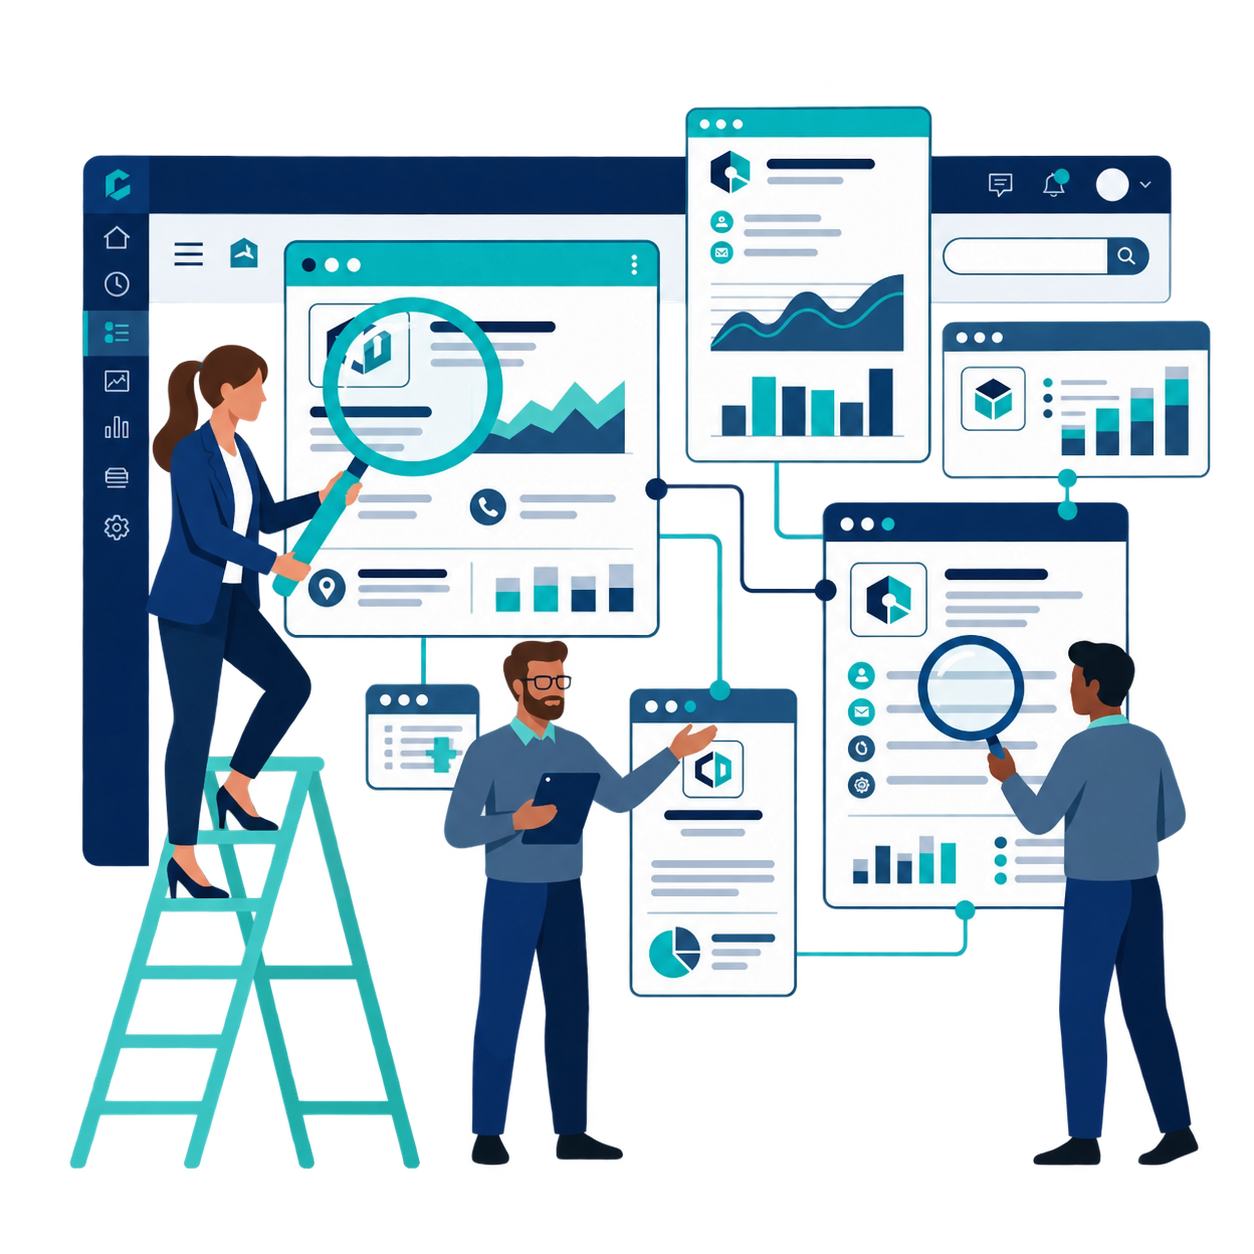
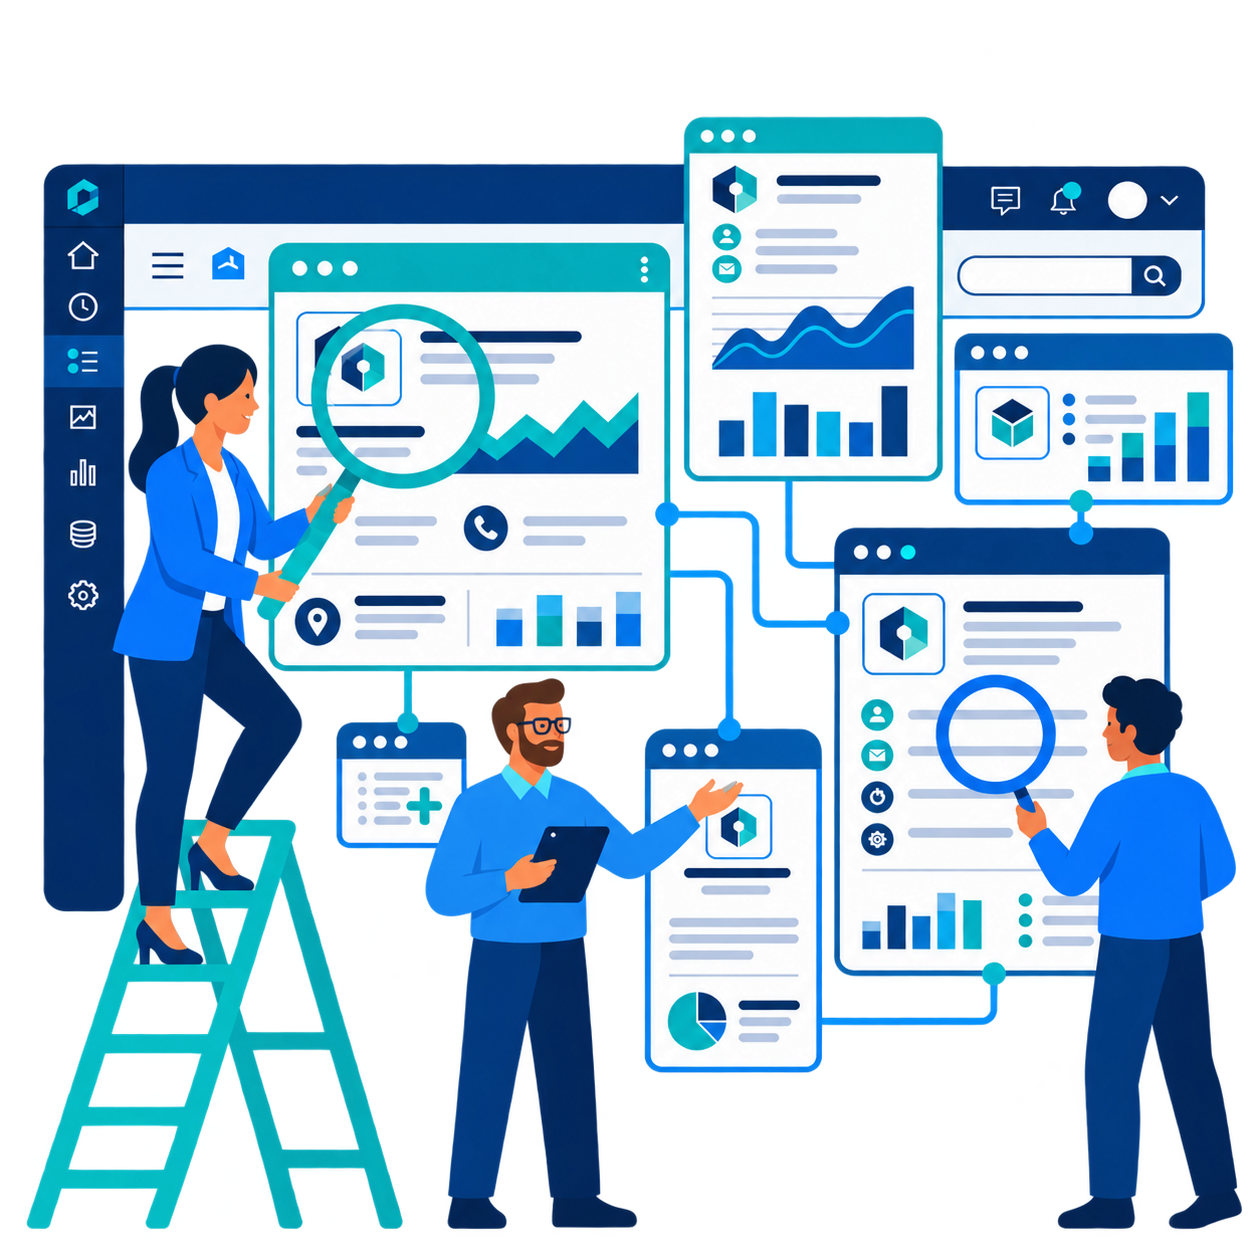
feat(search): replace search page illustration

diff --git a/apps/web/src/app/(protected)/search/page.tsx b/apps/web/src/app/(protected)/search/page.tsx
@@ -346,7 +346,7 @@ function SearchContent() {
                   />
 
                   <img
-                    src="/illustrations/search-prospects.png?v=20260919"
+                    src="/illustrations/search-prospects.png?v=20260919b"
                     alt="Prospection B2B au Cameroun — Trouvez vos clients avec Sales Companion"
                     className="illustration-refined"
                     style={{
